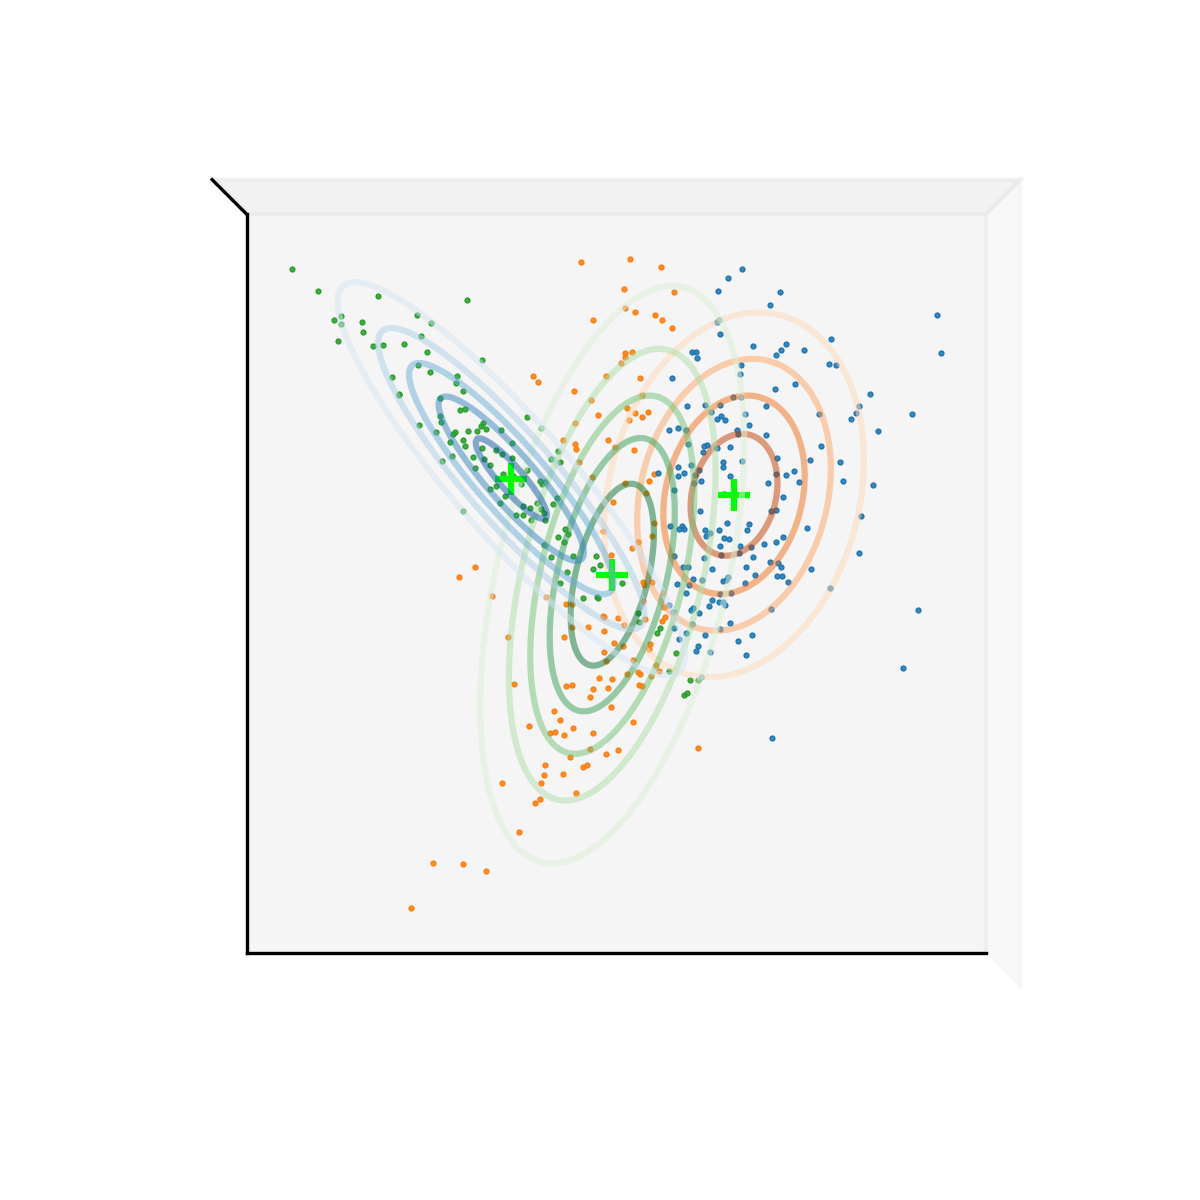
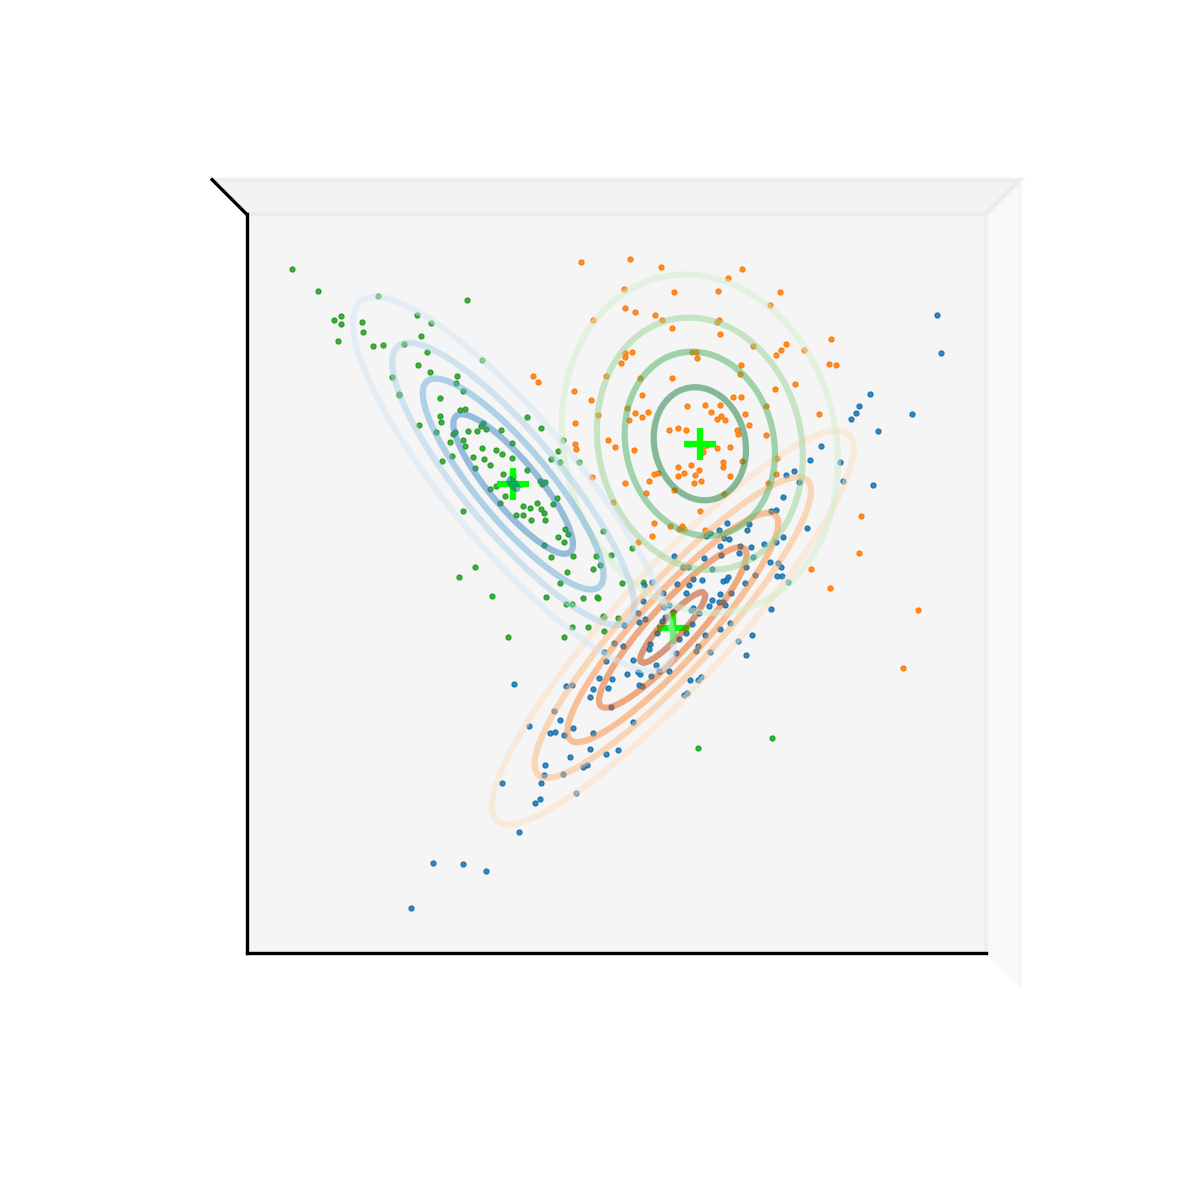
Plot 1-D HDI

Changed region(s): [[0.3083, 0.2467, 0.74, 0.7092]]

diff --git a/ex5/i_tzimas/GMMVB.py b/ex5/i_tzimas/GMMVB.py
@@ -257,10 +257,19 @@ class GMMVB:
                 self.m[k, : self.D], cov=la.pinv(self.nu[k] * self.W[k])
             )
 
-            # Plot contour
+            # Plot contour and HDI
             if self.D == 1:
                 pdf = pdf.pdf(x_grid)
-                plt.plot(x_grid, pdf, color=cm(k))
+                ax.plot(x_grid, pdf, color=cm(k))
+
+                hdi_mean = np.mean(self.hdi[k][0])
+                ax.bar(
+                    [hdi_mean],
+                    np.max(pdf),
+                    width=np.ptp(self.hdi[k][0]),
+                    color=cm(k),
+                    alpha=0.3,
+                )
             else:
                 pdf = pdf.pdf(np.reshape(xy, (-1, self.D)))
                 ax.contour(
